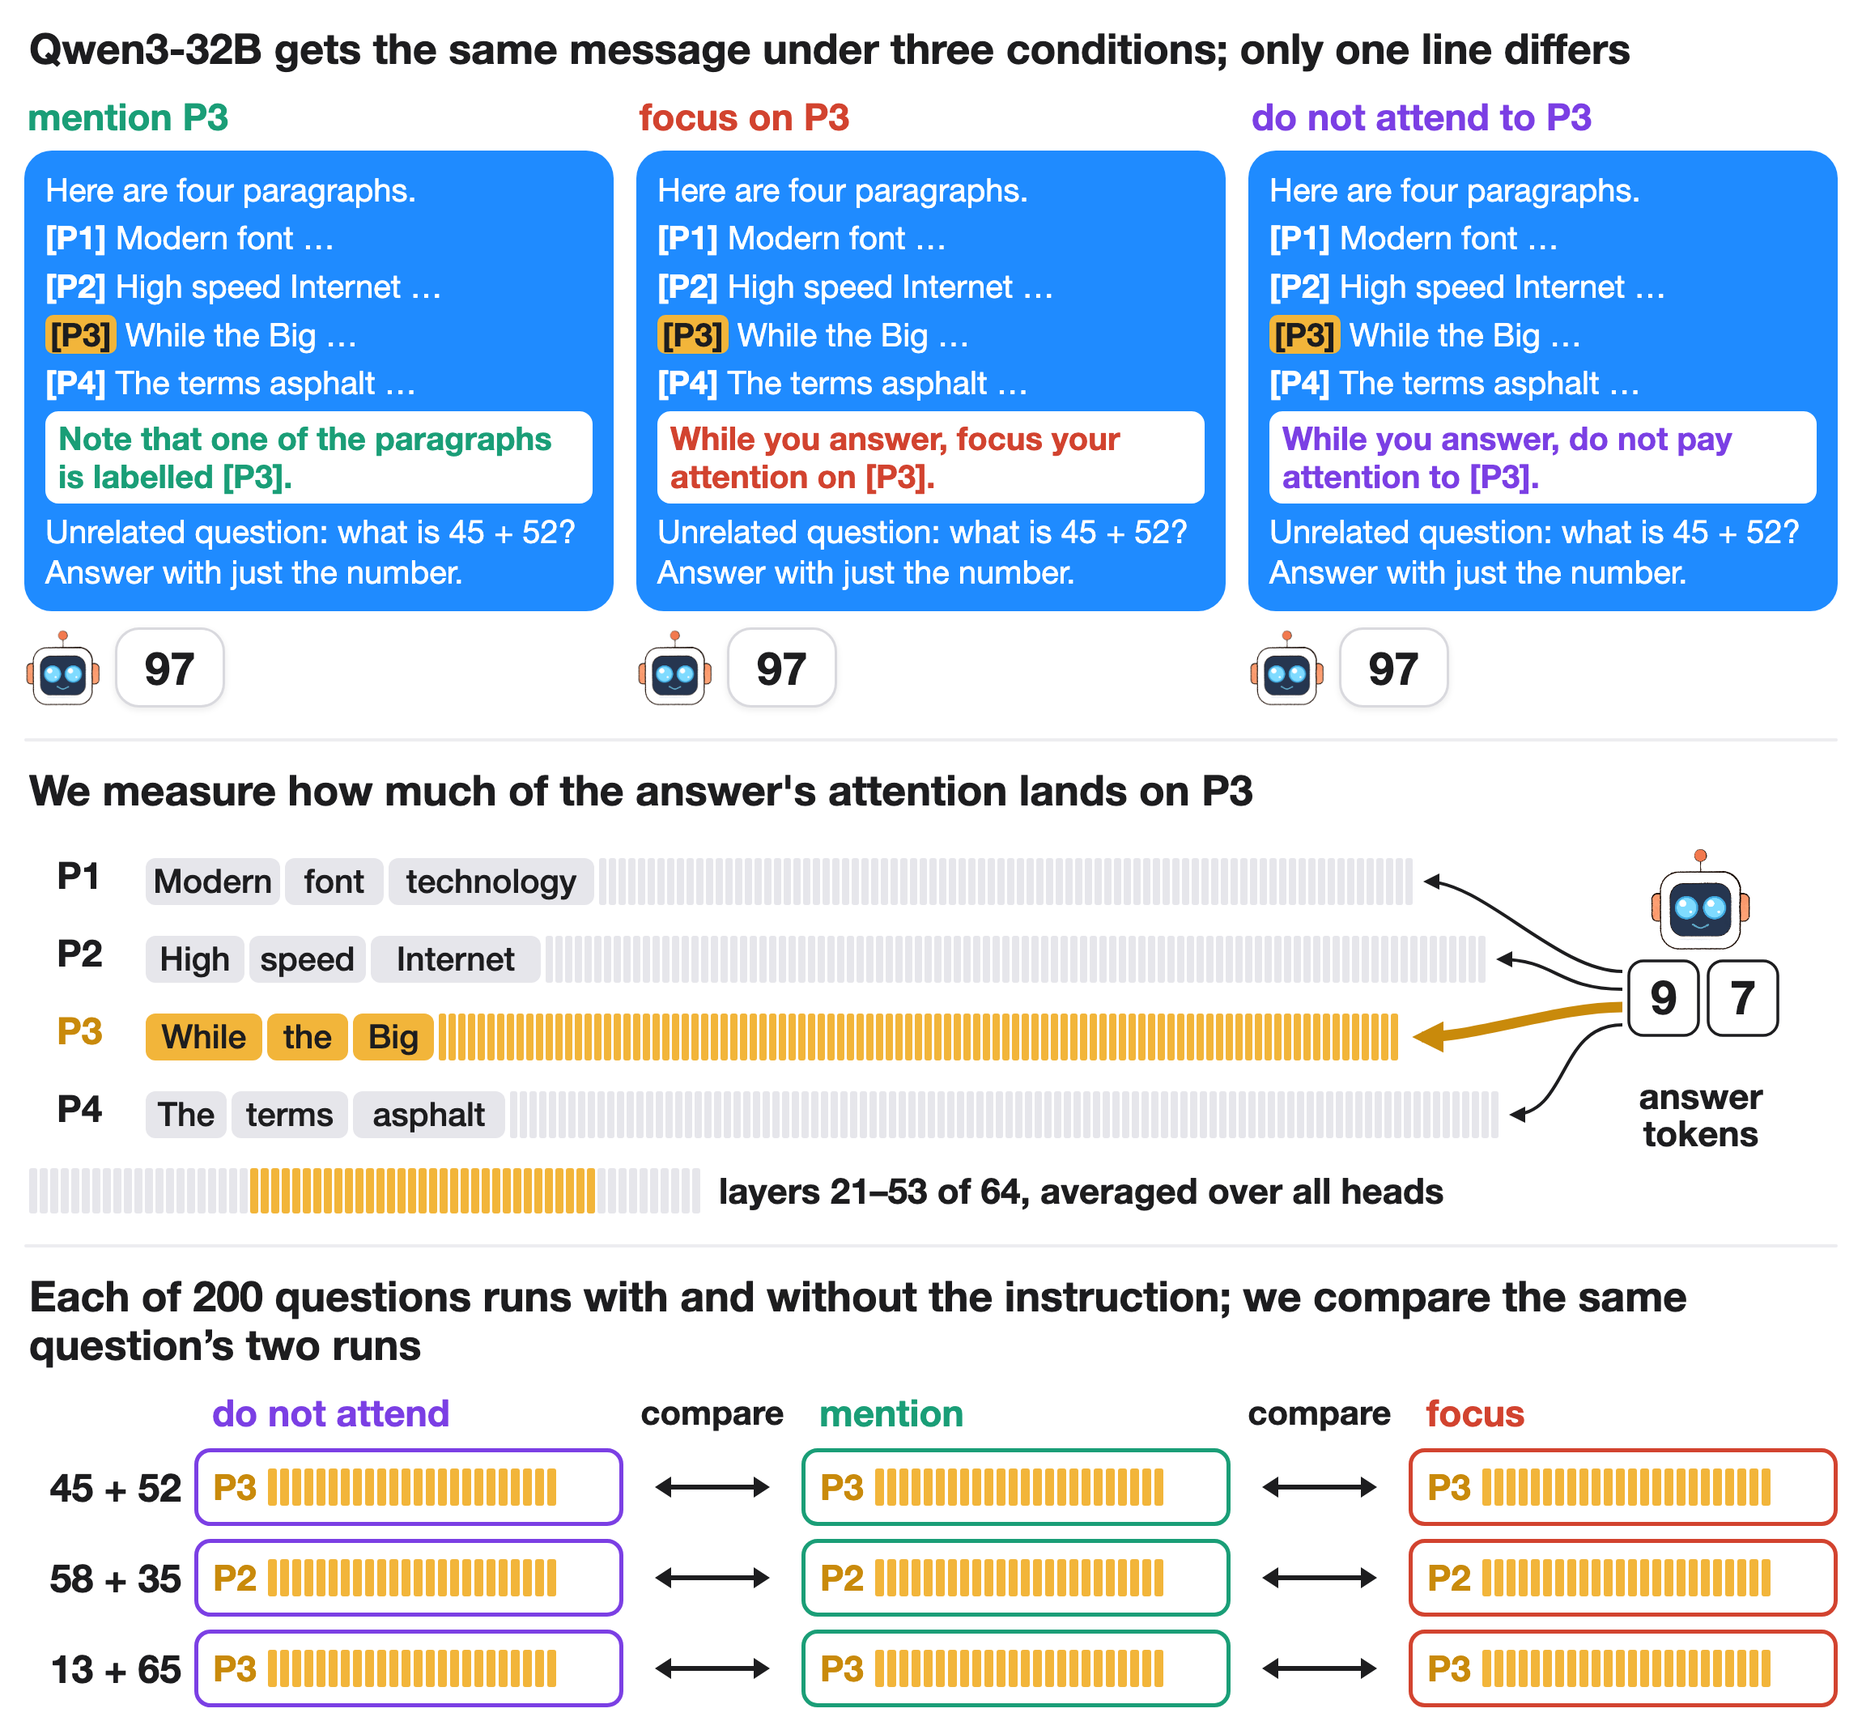
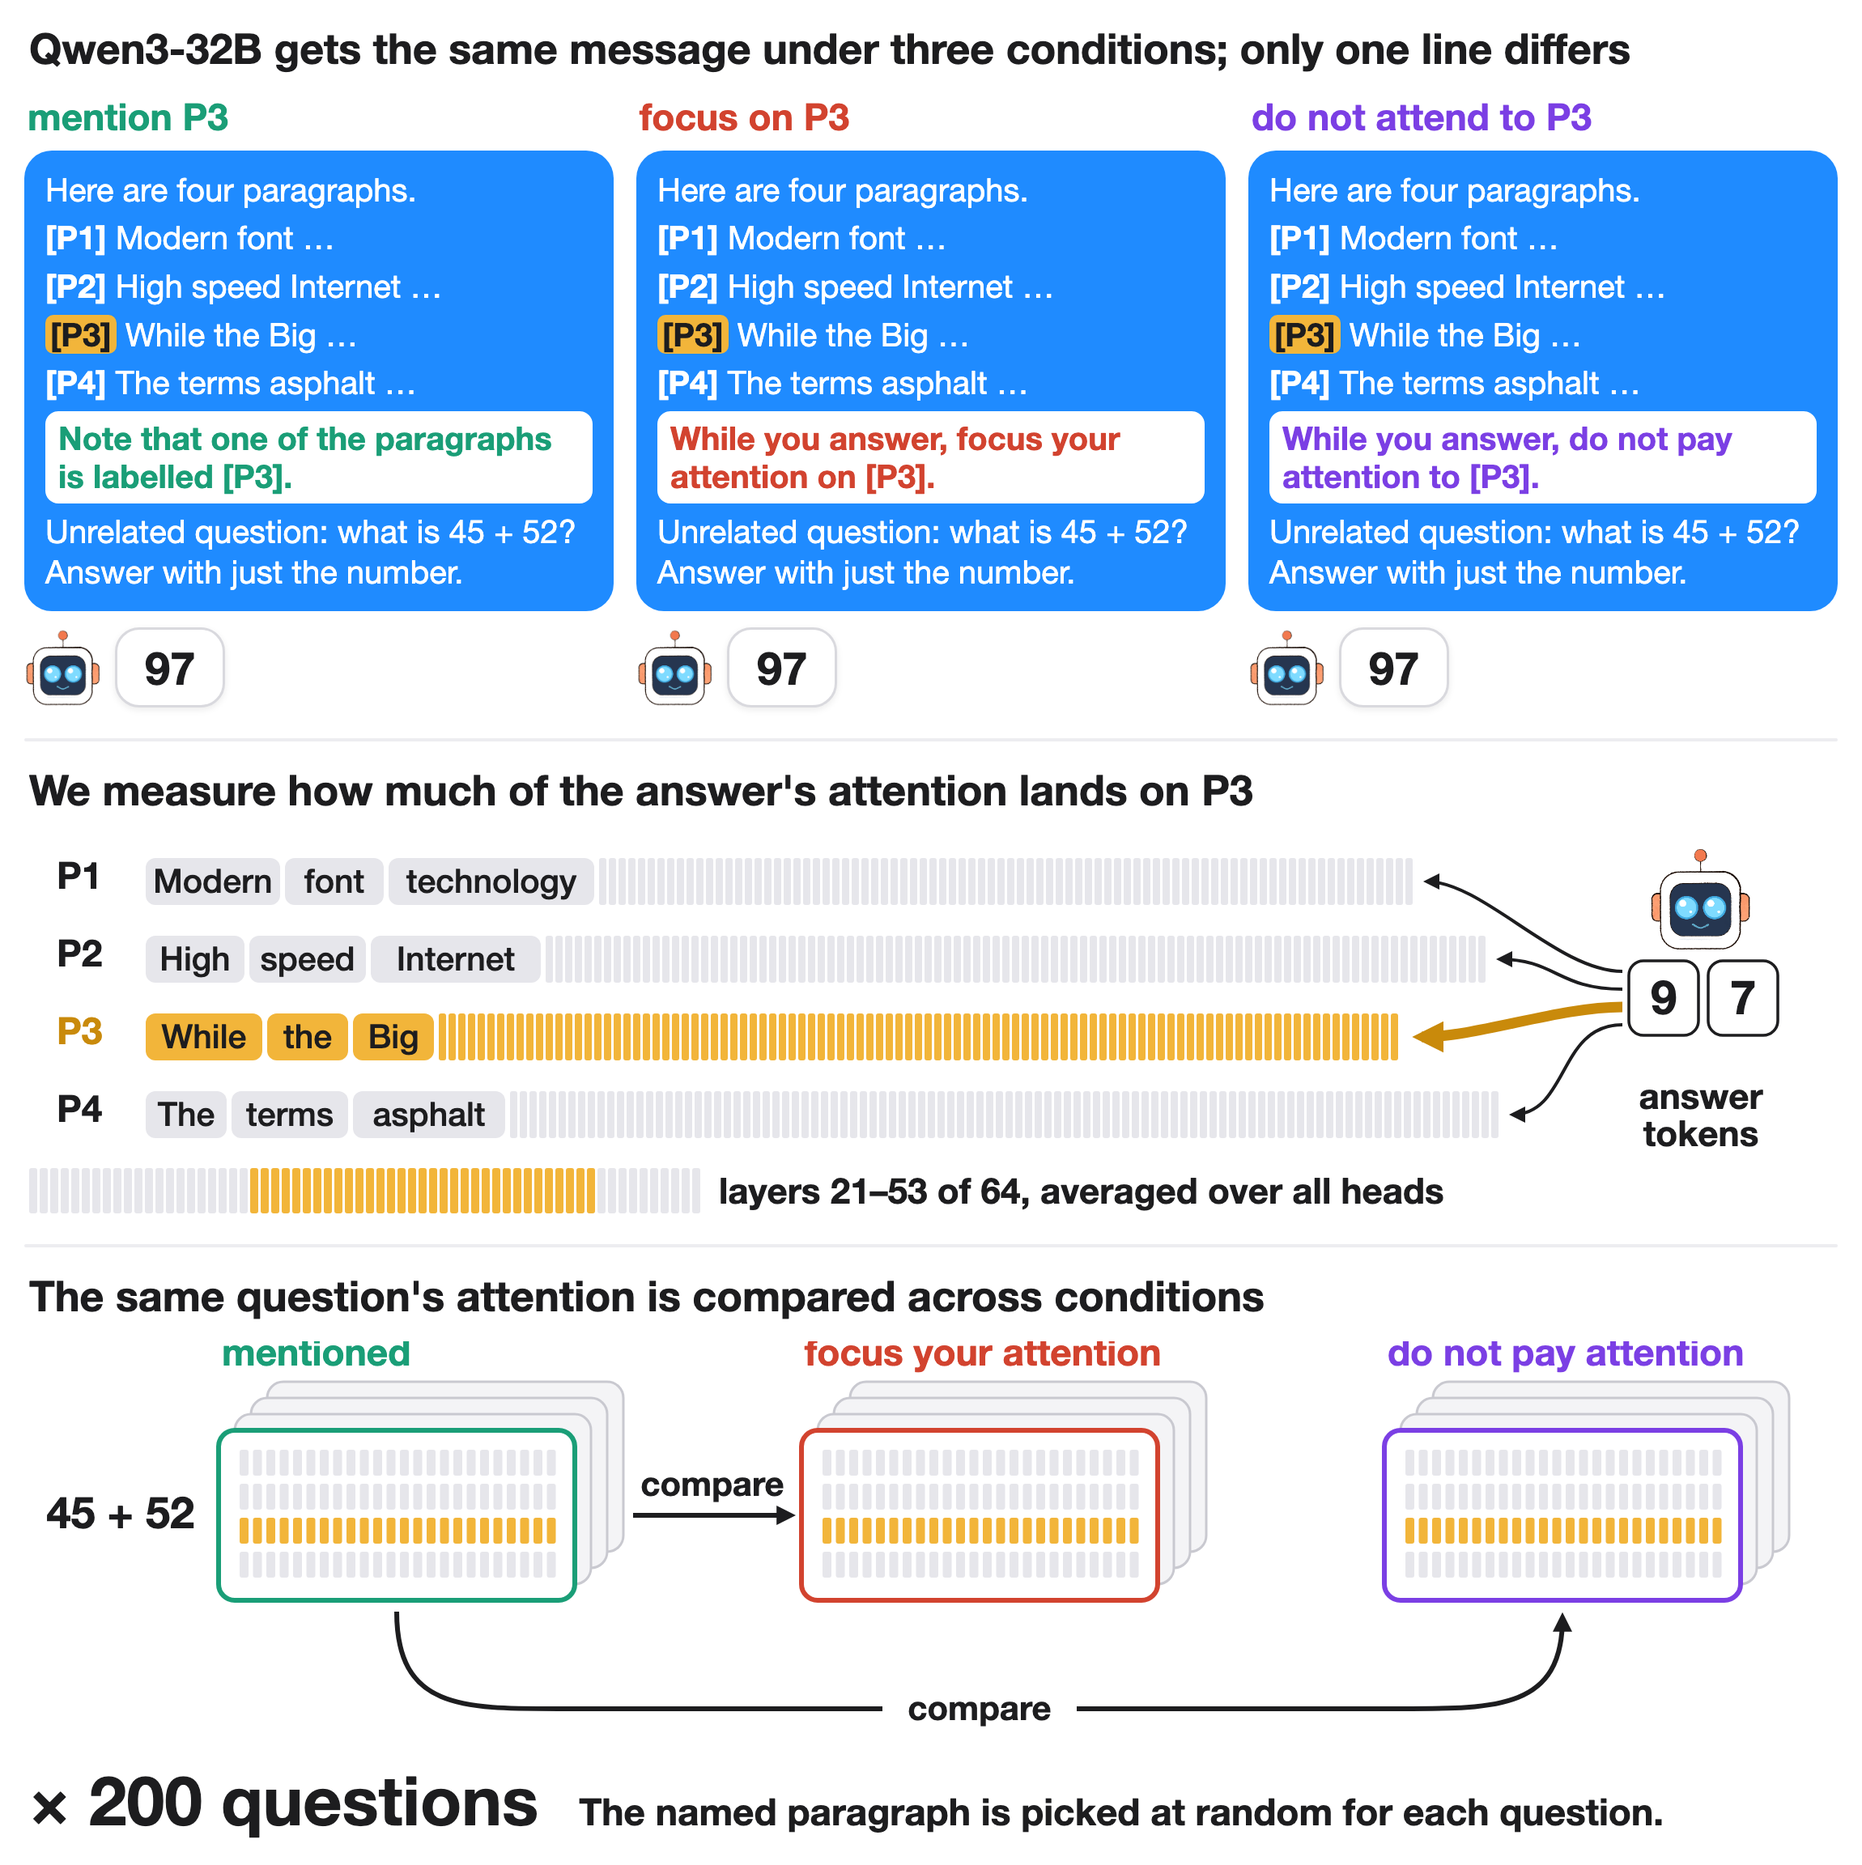
Method figure v3, combo, trace violin

diff --git a/figures/make_method.py b/figures/make_method.py
@@ -116,21 +116,37 @@ for l in range(NL):
     lay.append(f'<rect x="{l*13}" y="0" width="10" height="56" rx="3" fill="{AMB if on else CELL}"/>')
 laysvg = f'<svg width="{NL*13}" height="56">' + "".join(lay) + "</svg>"
 
-# ---------------- pairing table ----------------
-def ministrip(k, c, name):
-    r = "".join(f'<rect x="{j*15}" y="0" width="11" height="46" rx="3" fill="{AMB}"/>' for j in range(24))
-    return (f'<div class="cell" style="border-color:{c}">'
-            f'<span class="pk">P{k}</span><svg width="{24*15}" height="46">{r}</svg></div>')
-ARROW = ('<div class="cmp"><svg width="150" height="50" viewBox="0 0 150 50"><path d="M18,25 H132" stroke="#1D1D1F" stroke-width="6"/>'
-         '<path d="M4,25 L24,12 L24,38 z M146,25 L126,12 L126,38 z" fill="#1D1D1F"/></svg></div>')
-trs = ""
-for s_, k in rows:
-    trs += (f'<div class="tr"><div class="rl">{s_}</div>' + ministrip(k, COND[2][1], "do not attend") + ARROW
-            + ministrip(k, COND[0][1], "mention") + ARROW + ministrip(k, COND[1][1], "focus") + '</div>')
-cmphead = ('<div class="thr"><div class="rl"></div>'
-           f'<div class="th" style="color:{COND[2][1]}">do not attend</div><div class="cw">compare</div>'
-           f'<div class="th" style="color:{COND[0][1]}">mention</div><div class="cw">compare</div>'
-           f'<div class="th" style="color:{COND[1][1]}">focus</div></div>')
+# ---------------- pairing panel: one question, three conditions, x N ----------------
+PC = [("mentioned", COND[0][1]), ("focus your attention", COND[1][1]), ("do not pay attention", COND[2][1])]
+pv = []
+CX0 = 240; CWD = 440; GAP = 280; CTOP = 110; CHT = 210; NSTK = 3; OFF = 20
+cx = [CX0 + i * (CWD + GAP) for i in range(3)]
+pv.append(f'<defs><marker id="cm" viewBox="0 0 10 10" refX="7" refY="5" markerWidth="4" markerHeight="4" orient="auto"><path d="M0,0 L10,5 L0,10 z" fill="{INK}"/></marker></defs>')
+def ptext(x, yy, t, size=46, w=800, fill=INK, anchor="start"):
+    pv.append(f'<text x="{x}" y="{yy}" font-size="{size}" font-weight="{w}" fill="{fill}" text-anchor="{anchor}" font-family="Helvetica Neue, Helvetica, Arial">{html.escape(t)}</text>')
+for i, (nm, c) in enumerate(PC):
+    x = cx[i]
+    ptext(x + 4, CTOP - 26 - NSTK * OFF + 6, nm, 46, 800, c)
+    for s_ in range(NSTK, 0, -1):   # grey copies behind = other questions
+        pv.append(f'<rect x="{x + s_*OFF}" y="{CTOP - s_*OFF}" width="{CWD}" height="{CHT}" rx="20" fill="#F4F4F6" stroke="#C9C9D0" stroke-width="3"/>')
+    pv.append(f'<rect x="{x}" y="{CTOP}" width="{CWD}" height="{CHT}" rx="20" fill="white" stroke="{c}" stroke-width="6"/>')
+    for r in range(4):
+        yy = CTOP + 24 + r * 42
+        hot = (r + 1 == K)
+        for j in range(24):
+            pv.append(f'<rect x="{x + 26 + j*16.5}" y="{yy}" width="11" height="32" rx="3" fill="{AMB if hot else CELL}"/>')
+ptext(CX0 - 30, CTOP + CHT / 2 + 16, q.split("what is ")[1].split("?")[0], 54, 800, INK, "end")
+# compare: mentioned -> focus (straight), mentioned -> do not (arc under the cards)
+yA = CTOP + CHT / 2
+pv.append(f'<path d="M{cx[0]+CWD+NSTK*OFF+12},{yA} H{cx[1]-14}" stroke="{INK}" stroke-width="6" marker-end="url(#cm)"/>')
+ptext((cx[0] + CWD + NSTK*OFF + cx[1]) / 2, yA - 24, "compare", 42, 800, INK, "middle")
+yb = CTOP + CHT + 14
+x1 = cx[0] + CWD / 2; x2 = cx[2] + CWD / 2; dip = yb + 120
+pv.append(f'<path d="M{x1},{yb} C{x1},{dip} {x1+80},{dip} {x1+200},{dip} H{x2-200} C{x2-80},{dip} {x2},{dip} {x2},{yb+8}" fill="none" stroke="{INK}" stroke-width="6" marker-end="url(#cm)"/>')
+pv.append(f'<rect x="{(x1+x2)/2-120}" y="{dip-34}" width="240" height="60" fill="white"/>')
+ptext((x1 + x2) / 2, dip + 14, "compare", 42, 800, INK, "middle")
+PH = dip + 40
+svg2 = f'<svg width="{W-60}" height="{PH}" viewBox="0 0 {W-60} {PH}">' + "".join(pv) + "</svg>"
 HTML = f'''<!doctype html><html><head><meta charset="utf-8"><style>
 *{{box-sizing:border-box;margin:0;padding:0}}
 body{{width:{W}px;background:#fff;font-family:"Helvetica Neue",Helvetica,Arial,sans-serif;color:{INK};padding:30px 30px 34px}}
@@ -157,6 +173,9 @@ body{{width:{W}px;background:#fff;font-family:"Helvetica Neue",Helvetica,Arial,s
 .cmp{{width:200px;display:flex;justify-content:center}}
 .cn{{font-size:42px;font-weight:800;white-space:nowrap}}
 .cell{{flex:1;height:96px;border:5px solid;border-radius:20px;display:flex;align-items:center;gap:14px;padding:0 18px;overflow:hidden}}
+.rep{{display:flex;align-items:baseline;gap:50px;margin:18px 0 0 6px}}
+.big{{font-size:84px;font-weight:800}}
+.rnd{{font-size:46px;font-weight:800}}
 .pk{{font-size:44px;font-weight:800;color:{AMBD}}}
 </style></head><body>
 <div class="h">Qwen3-32B gets the same message under three conditions; only one line differs</div>
@@ -166,12 +185,9 @@ body{{width:{W}px;background:#fff;font-family:"Helvetica Neue",Helvetica,Arial,s
 {svg1}
 <div class="lay">{laysvg}<span>layers {L0}–{L1} of {NL}, averaged over all heads</span></div>
 <div class="sep"></div>
-<div class="h">Each of {N_ARITH} questions runs with and without the instruction; we compare the same question’s two runs</div>
-<div class="tbl">
-{cmphead}
-{trs}
-
-</div>
+<div class="h">The same question's attention is compared across conditions</div>
+{svg2}
+<div class="rep"><span class="big">× {N_ARITH} questions</span><span class="rnd">The named paragraph is picked at random for each question.</span></div>
 </body></html>'''
 open(os.path.join(HERE, "method.html"), "w").write(HTML)
 CH = "/Users/user/.pw/chromium-1248/chrome-mac-arm64/Google Chrome for Testing.app/Contents/MacOS/Google Chrome for Testing"

diff --git a/figures/combo.py b/figures/combo.py
@@ -52,7 +52,7 @@ fig.supylabel("Attention on paragraph X with the instruction",fontsize=34,x=0.01
 fig.subplots_adjust(left=0.17,right=0.97,top=0.90,bottom=0.08,wspace=0.06,hspace=0.08)
 pass #,dpi=150,facecolor="white"); pass #,dpi=150,facecolor="white")
 
-import numpy as np
+import numpy as np, matplotlib.ticker
 from matplotlib import colors
 res={}
 for m,name,cond in [("qwen3-32b","“focus your\nattention”","focus"),("qwen3-32b","“do not pay\nattention”","ignore")]:
@@ -67,30 +67,31 @@ for m,name,cond in [("qwen3-32b","“focus your\nattention”","focus"),("qwen3-
     print(name,"n=%d meanSD=%.3f CI[%.3f,%.3f] above=%d (%.1f%%) d_z=%.3f sd_mention=%.3g"%(len(z),mm,lo,hi,res[name]["above"],100*res[name]["above"]/len(z),res[name]["dz"],x.std(ddof=1)))
 
 plt.rcParams.update({"font.size":56})
-fig,(a,b)=plt.subplots(1,2,figsize=(35,15),gridspec_kw=dict(width_ratios=[1,1.35]))
+fig,(a,b)=plt.subplots(1,2,figsize=(36,16),gridspec_kw=dict(width_ratios=[1.2,1.5]))
 cmap=colors.LinearSegmentedColormap.from_list("hy",["#BFD3EE","#5B8BD0","#2B4FA8","#4B2A8F","#2A0F4F"])
 allz=np.concatenate([res[n]["z"] for n in res]); vm=np.percentile(np.abs(allz),97); norm=colors.Normalize(vmin=0,vmax=vm)
 rng=np.random.default_rng(1)
 for p,name in enumerate(res):
     r=res[name]; z=r["z"]
-    vv=a.violinplot([z],positions=[p],widths=0.95,showextrema=False)
+    vv=a.violinplot([z],positions=[p*1.35],widths=0.95,showextrema=False)
     for bb in vv["bodies"]: bb.set_facecolor(BLUE); bb.set_alpha(0.22); bb.set_edgecolor(BLUE); bb.set_linewidth(2.5)
-    xj=p+rng.uniform(-0.34,0.34,len(z)); a.scatter(xj,z,s=650,c=cmap(norm(np.abs(z))),alpha=0.45,edgecolors="none",zorder=3); a.scatter(xj,z,s=6,color="black",zorder=4)
-    a.plot([p,p],[r["lo"],r["hi"]],color=INK,lw=12,solid_capstyle="butt",zorder=5); a.plot([p-0.22,p+0.22],[r["mean"]]*2,color=INK,lw=6,zorder=6)
-    a.text(p,(z.max()+4) if r["mean"]>0 else (z.min()-4),f"{r['mean']:+.0f}%",fontsize=80,fontweight="bold",ha="center",va=("bottom" if r["mean"]>0 else "top"),zorder=7)
-a.set_xticks([0,1]); a.set_xticklabels(["“focus\nyour\nattention”","“do not\npay\nattention”"],fontsize=52,fontweight="bold",linespacing=1.1); a.set_xlim(-0.6,1.6)
+    xj=p*1.35+rng.uniform(-0.34,0.34,len(z)); a.scatter(xj,z,s=650,c=cmap(norm(np.abs(z))),alpha=0.45,edgecolors="none",zorder=3); a.scatter(xj,z,s=6,color="black",zorder=4)
+    a.plot([p*1.35,p*1.35],[r["lo"],r["hi"]],color=INK,lw=12,solid_capstyle="butt",zorder=5); a.plot([p*1.35-0.22,p*1.35+0.22],[r["mean"]]*2,color=INK,lw=6,zorder=6)
+    a.text(p*1.35,(z.max()+2) if r["mean"]>0 else (z.min()-2),f"{r['mean']:+.0f}%",fontsize=90,fontweight="bold",ha="center",va=("bottom" if r["mean"]>0 else "top"),zorder=7)
+a.set_xticks([0,1.35]); a.set_xticklabels(["“focus\nyour\nattention”","“do not\npay\nattention”"],fontsize=60,fontweight="bold",linespacing=1.1); a.set_xlim(-0.6,1.95)
 # layers panel, % change vs no instruction
 l=np.arange(len(lay)); m=100*(np.exp([t[0] for t in lay])-1); lo=100*(np.exp([t[1] for t in lay])-1); hi=100*(np.exp([t[2] for t in lay])-1)
 b.fill_between(l,lo,hi,color=BLUE,alpha=0.25,lw=0); b.plot(l,m,color=BLUE,lw=6)
-i=int(np.argmax(m)); b.text(i+1.6,m[i],f"{m[i]:+.0f}%",fontsize=72,color=BLUE,fontweight="bold",va="center")
-b.text(1,195,"“focus your attention”, by layer",fontsize=52,color=BLUE,fontweight="bold",va="top")
-b.set_xlim(-1,64); b.set_xticks([0,16,32,48,63]); b.set_xlabel("layer",fontsize=64,labelpad=12)
-YL=(-50,200)
+i=int(np.argmax(m)); b.text(i+1.6,m[i],f"{m[i]:+.0f}%",fontsize=84,color=BLUE,fontweight="bold",va="center")
+b.text(0.5,1.0,"uplift due to “focus your attention”",transform=b.transAxes,fontsize=54,color=BLUE,fontweight="bold",va="top",ha="center")
+b.set_xlim(-1,64); b.set_xticks([0,16,32,48,63]); b.set_xlabel("layer",fontsize=84,labelpad=8)
+a.set_ylim(allz.min()-17,allz.max()+16); b.set_ylim(min(lo.min(),0)-12,hi.max()+22)
 for ax in (a,b):
-    ax.axhline(0,color=INK,lw=4,zorder=4); ax.set_ylim(*YL); tk=[-50,0,50,100,150,200]; ax.set_yticks(tk); ax.set_yticklabels([f"{t:+d}%" if t else "0%" for t in tk])
+    ax.axhline(0,color=INK,lw=4,zorder=4)
+    ax.yaxis.set_major_formatter(matplotlib.ticker.FuncFormatter(lambda v,_: f"{v:+.0f}%" if v else "0%"))
     for s_ in ["top","right"]: ax.spines[s_].set_visible(False)
-    ax.spines["left"].set_linewidth(3); ax.spines["bottom"].set_linewidth(3); ax.tick_params(width=3,length=12,labelsize=58)
-a.set_ylabel("change in attention",fontsize=68,labelpad=16)
-b.text(1,4,"no change",ha="left",va="bottom",fontsize=48,fontweight="bold")
-fig.tight_layout(w_pad=4); fig.savefig(OUT+"combo.png",dpi=110,facecolor="white"); fig.savefig(OUT+"combo.jpg",dpi=110,facecolor="white")
+    ax.spines["left"].set_linewidth(3); ax.spines["bottom"].set_linewidth(3); ax.tick_params(width=4,length=16,labelsize=72)
+a.set_ylabel("change in attention",fontsize=84,labelpad=10); b.set_ylabel("change in attention",fontsize=84,labelpad=10)
+b.text(62,-3,"no change",ha="right",va="top",fontsize=56,fontweight="bold")
+fig.tight_layout(w_pad=2,pad=0.6); fig.savefig(OUT+"combo.png",dpi=110,facecolor="white"); fig.savefig(OUT+"combo.jpg",dpi=110,facecolor="white")
 print(m.max(), m.min())

diff --git a/figures/trace2.py b/figures/trace2.py
@@ -1,0 +1,48 @@
+import json, numpy as np, matplotlib
+matplotlib.use("Agg"); import matplotlib.pyplot as plt
+from matplotlib import colors
+R="/Users/user/connectome/islands/agents/resident-a/compute/attn_intro/qwen3-32b/"
+OUT="/Users/user/connectome/islands/agents/resident-a/compute/fig/attn_intro/"
+BLUE="#2B5FA8"; ORANGE="#E07B24"; INK="#1D1D1F"
+plt.rcParams.update({"font.family":"Helvetica","font.size":60,"text.color":INK,"axes.labelcolor":INK,"xtick.color":INK,"ytick.color":INK,"axes.edgecolor":INK})
+A=json.load(open(R+"A.json")); A2=json.load(open(R+"A2.json"))
+byid={r["id"]:r for r in A}
+def spec(d,r):
+    others=[m for m in range(4) if m!=r["k"] and (r["task"]!="qa" or m!=r["j"])]
+    return d[r["k"]]-np.mean([d[m] for m in others])
+def boot(x,NB=10000,seed=0):
+    rng=np.random.default_rng(seed); s=x[rng.integers(0,len(x),(NB,len(x)))].mean(1); return x.mean(),np.percentile(s,2.5),np.percentile(s,97.5)
+cols=[]
+for b in [1.0,2.0]:
+    rs=[r for r in A2 if r["task"]=="arith" and r["b"]==b]; bs=[byid[r["id"]] for r in rs]
+    same=[r["ans"].strip()==b0["ans"].strip() for r,b0 in zip(rs,bs)]
+    ls=np.array([spec(np.array(r["rep_lp"])-np.array(b0["rep_lp"]),r) for r,b0,s in zip(rs,bs,same) if s])
+    lr=np.array([spec(np.array(r["reader_lp"])-np.array(b0["reader_lp"]),r) for r,b0,s in zip(rs,bs,same) if s])
+    cols.append((b,ls,lr)); print(b,len(ls),boot(ls),boot(lr))
+fig,a=plt.subplots(figsize=(30,15))
+cm=colors.LinearSegmentedColormap.from_list("h",["#BFD3EE","#5B8BD0","#2B4FA8","#4B2A8F","#2A0F4F"])
+allv=np.concatenate([c[1] for c in cols]); nm=colors.Normalize(0,np.percentile(np.abs(allv),97))
+rng=np.random.default_rng(2)
+pos=[0,1.2,2.8,4.0]; labs=[]
+for i,(b,ls,lr) in enumerate(cols):
+    for j,(v,col,name) in enumerate([(ls,BLUE,"asked about\nitself"),(lr,ORANGE,"reading the\ntranscript")]):
+        p=pos[2*i+j]
+        vv=a.violinplot([v],positions=[p],widths=0.95,showextrema=False)
+        for bb in vv["bodies"]: bb.set_facecolor(col); bb.set_alpha(0.2); bb.set_edgecolor(col); bb.set_linewidth(2.5)
+        xj=p+rng.uniform(-0.33,0.33,len(v))
+        c=cm(nm(np.abs(v))) if j==0 else [ORANGE]*len(v)
+        a.scatter(xj,v,s=600,c=c,alpha=0.45,edgecolors="none",zorder=3); a.scatter(xj,v,s=6,color="black",zorder=4)
+        m,lo,hi=boot(v); a.plot([p,p],[lo,hi],color=INK,lw=12,solid_capstyle="butt",zorder=5); a.plot([p-0.22,p+0.22],[m,m],color=INK,lw=6,zorder=6)
+        a.text(p,v.min()-0.12 if m<-0.05 else v.max()+0.12,f"{m:+.2f}",ha="center",va="top" if m<-0.05 else "bottom",fontsize=72,fontweight="bold",color=col)
+        labs.append((p,name,col))
+a.axhline(0,color=INK,lw=4,zorder=2)
+a.set_xticks([p for p,_,_ in labs]); a.set_xticklabels([n for _,n,_ in labs],fontsize=50,fontweight="bold")
+for t,(_,_,c) in zip(a.get_xticklabels(),labs): t.set_color(c)
+for x,txt in [(0.6,"attention forced ×2"),(3.4,"attention forced ×5")]:
+    a.text(x,allv.max()+0.75,txt,ha="center",va="top",fontsize=64,fontweight="bold")
+a.set_ylabel("change in log-prob of naming\nthe boosted paragraph",fontsize=60,labelpad=12)
+a.set_ylim(allv.min()-0.9,allv.max()+0.8); a.set_xlim(-0.65,4.65)
+
+for s in ["top","right"]: a.spines[s].set_visible(False)
+a.spines["left"].set_linewidth(4); a.spines["bottom"].set_linewidth(4); a.tick_params(width=4,length=16,labelsize=64); a.tick_params(axis="x",length=0)
+fig.tight_layout(pad=0.6); fig.savefig(OUT+"trace2.png",dpi=100,facecolor="white"); fig.savefig(OUT+"trace2.jpg",dpi=100,facecolor="white")
